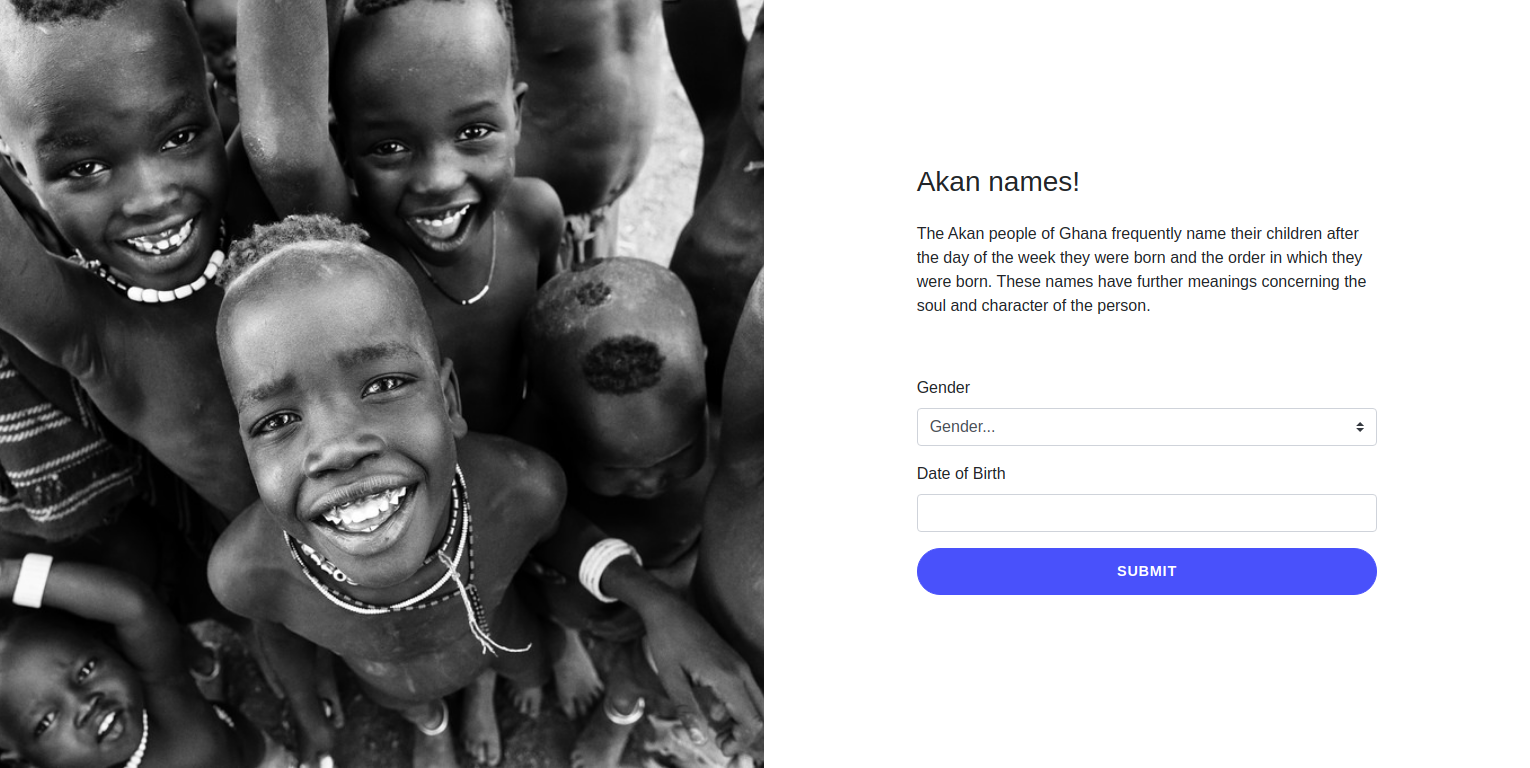
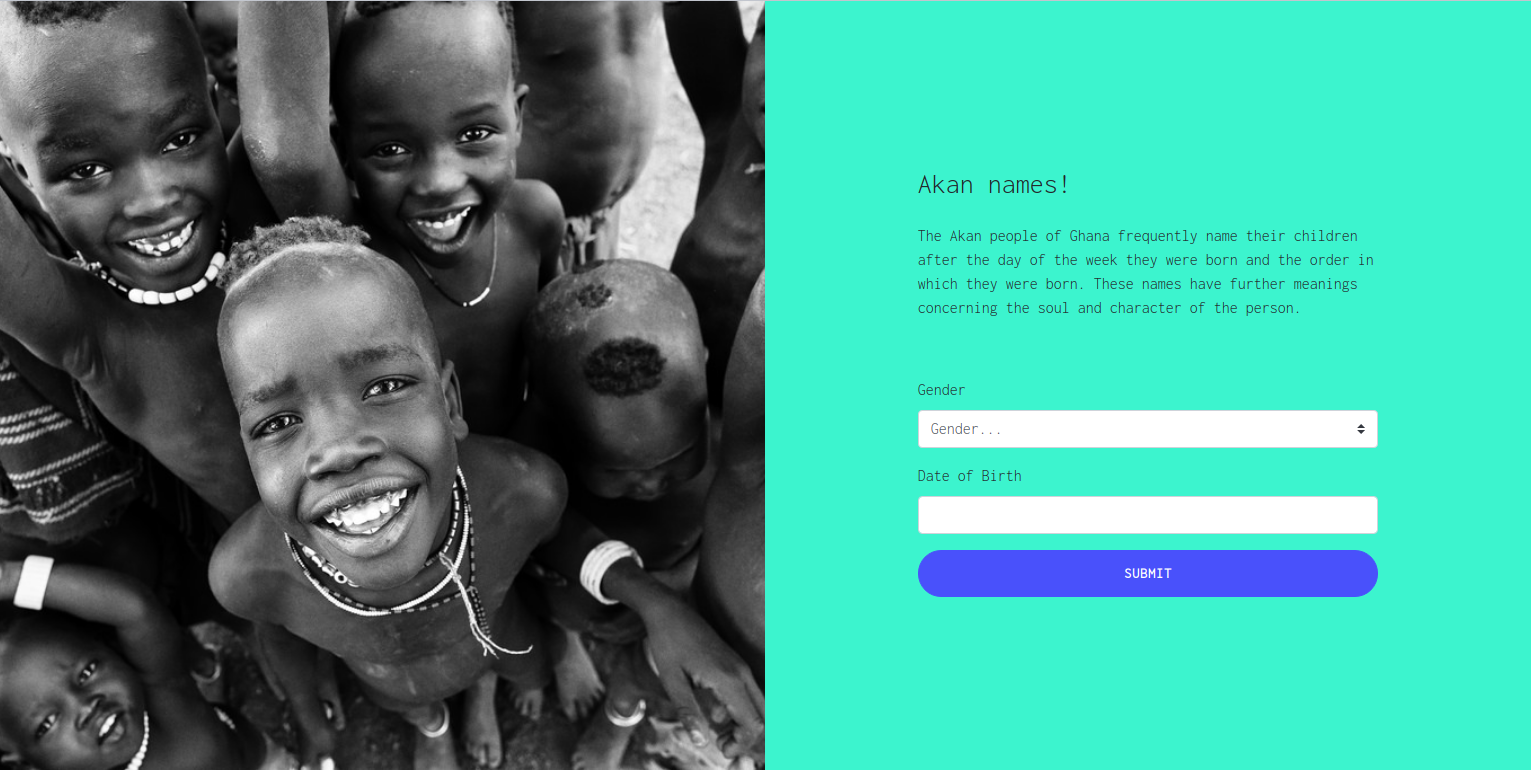
Add landing page photo to README.md

diff --git a/main.css b/main.css
@@ -1,6 +1,6 @@
 body {
     font-family: 'Inconsolata', monospace;
-    background-color: aquamarine;
+    background-color: #34ebcd;
 }
 :root {
     --input-padding-x: 1.5rem;

diff --git a/README.md b/README.md
@@ -19,7 +19,7 @@ Search engine, preferrably Google Chrome
 
 ##### Setup Instructions and Installation
 
-- Clone this repository to a location in your file system.
+- Clone this repository to a location in your file system:
 https://github.com/TimothyGicharu/akan-name-generator.git
 - Open terminal command line then navigate to the root folder of the application. 
 - Open `index.html` on your Browser.
